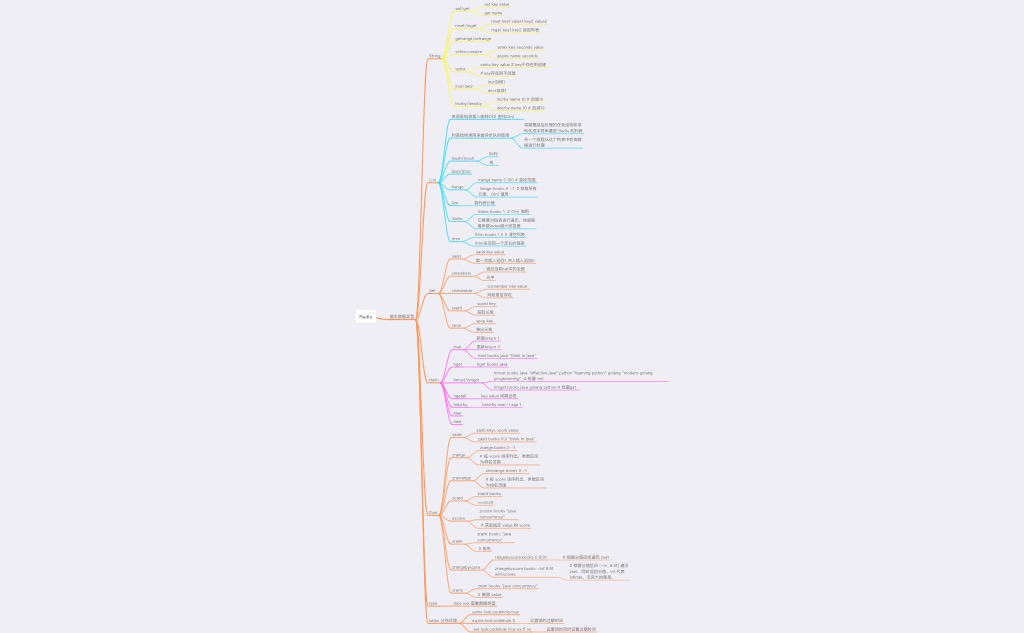
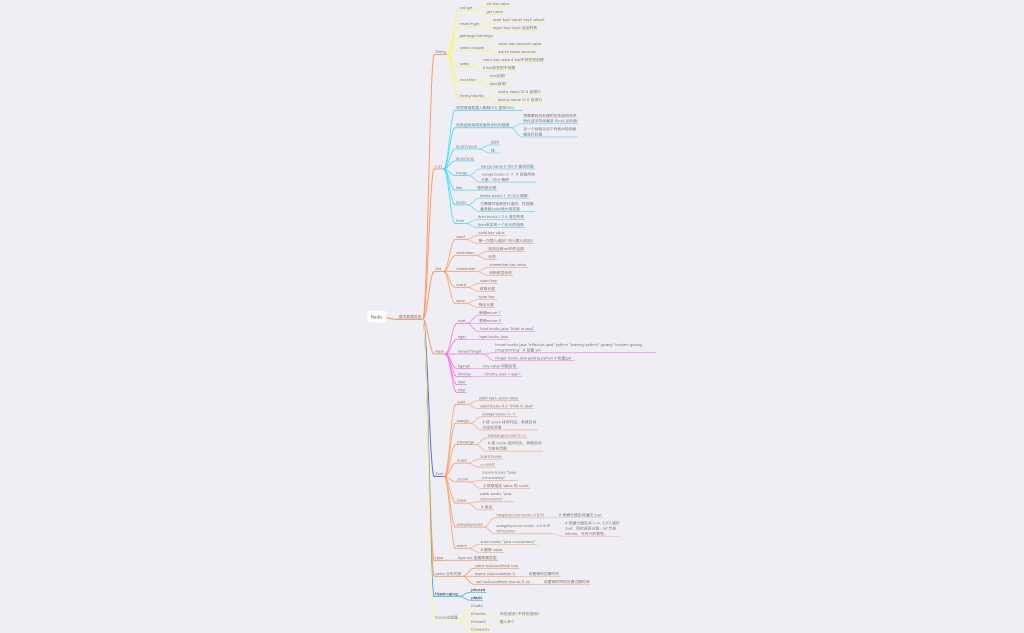
add bloom

Changed region(s): [[0.3438, 0.0, 0.625, 1.0]]

diff --git a/test_bloom.py b/test_bloom.py
@@ -1,0 +1,62 @@
+# coding:utf-8
+from __future__ import unicode_literals
+
+import redis
+import random
+
+pool = redis.ConnectionPool(host='127.0.0.1', port='6381')
+
+r = redis.Redis(connection_pool=pool)
+
+# 构造26字母
+CHARS = ''.join([chr(ord('a') + i) for i in range(26)])
+
+
+def random_string(n):
+    """
+    构造随机长度的字符串
+    """
+    chars = []
+    for i in range(n):
+        idx = random.randint(0, len(CHARS) - 1)
+        chars.append(CHARS[idx])
+    return ''.join(chars)
+
+
+users = list(set([random_string(64) for i in range(100000)]))
+print('total users', len(users))
+users_train = users[:len(users)//2]  # 前一半
+users_test = users[len(users)//2:]  # 后一半
+
+r.delete("code")
+falses = 0
+
+"""
+使用bf.reserve 设置错误率
+不使用 bf.reserve，默认的error_rate是 0.01，默认的initial_size是 100。
+"""
+r.execute_command("bf.reserve", "code", 0.001, 50000)
+
+for user in users_train:
+    """
+    将前一半添加
+    """
+    r.execute_command("bf.add", "code", user)
+
+print('all trained')
+for user in users_test:
+    """
+    拿后一半的数据在已经添加的数据中查找
+    """
+    ret = r.execute_command("bf.exists", "code", user)
+    # 使用另一半的作为误差统计
+    if ret == 1:
+        falses += 1
+
+
+"""
+total users 100000
+all trained
+586 50000 err percent: 0.01172  # 误判率 1%
+"""
+print(falses, len(users_test), f'err percent: {falses/len(users_test)}')

diff --git a/redis_test.py b/redis_test.py
@@ -4,7 +4,7 @@ from __future__ import unicode_literals
 import redis
 import json
 
-pool = redis.ConnectionPool(host='127.0.0.1',port='6380')
+pool = redis.ConnectionPool(host='127.0.0.1', port='6380')
 
 r = redis.Redis(connection_pool=pool)
 # print r.mget('name1', 'name2', 'aaa')
@@ -13,14 +13,14 @@ r = redis.Redis(connection_pool=pool)
 # print r.get('name1')
 
 
-# print r.setrange('name', 0, "你好") 
+# print r.setrange('name', 0, "你好")
 # print r.getrange('name',0,100)
 
 # list
 # print r.lindex('books', '0')
 # print r.lrange('books', '0', "-1")
 
-# 使用yield 对列表元素增量迭代  
+# 使用yield 对列表元素增量迭代
 
 def redis_list_itre(name):
     """
@@ -32,8 +32,8 @@ def redis_list_itre(name):
         for index in range(list_count):
             yield r.lindex(name, index)
     else:
-        print "%s is not list type" %name
- 
+        print "%s is not list type" % name
+
 # for item in redis_list_itre("books"):
 #     print item
 
@@ -54,7 +54,8 @@ def redis_user_info_hash_get():
     res = r.hmget('user01', 'name', 'age')
     print(res)
 
+
 # redis_user_info_hash_get()
-client = redis.StrictRedis(connection_pool = pool)
+client = redis.StrictRedis(connection_pool=pool)
 
 r.zadd('zz', 'n1', 1, 'n2', 2)

diff --git a/redis-py-err.py b/redis-py-err.py
@@ -1,0 +1,37 @@
+# coding:utf-8
+from __future__ import unicode_literals
+
+# redis-py中Python2/3版本的坑
+
+import redis
+pool = redis.ConnectionPool(host='127.0.0.1', port='6380')
+
+r = redis.Redis(connection_pool=pool)
+
+# zadd
+element1 = "hello world"
+score1 = 11
+
+if redis.VERSION[0] < 3:
+    print("python2")
+    # in python2
+    # r.zadd('my-key', element1=score1)
+    # r.setex(name, time, value)
+    # r.zincrby('test1', 'value', amount=10)
+else:
+    print('python3')
+    """
+    def zincrby(self, name, amount, value):
+    原生语句 zincrby key increment member
+    name ->key 
+    amount ->value
+    value -> member
+    """
+    # r.zincrby('test1', 10, 'tom')  # python3和原生的执行顺序一致
+    # r.execute_command('zincrby', 'test1', 2, 'jack')
+
+    """
+    zadd in python3 is map
+    """
+    r.zadd('my-key', {element1: score1})
+    r.execute_command('zadd', 'books', 9.8, 'python cookbook')

diff --git a/bloom.py b/bloom.py
@@ -1,0 +1,24 @@
+# coding:utf-8
+from __future__ import unicode_literals
+
+import redis
+import json
+
+pool = redis.ConnectionPool(host='127.0.0.1', port='6381')
+
+r = redis.Redis(connection_pool=pool)
+
+# 对已经存在的元素不会出现误判
+r.delete("codehole")
+for i in range(100000):
+    r.execute_command("bf.add", "codehole", "user%d" % i)
+    # ret = r.execute_command("bf.exists", "codehole", "user%d" % i)
+    # if ret == 0:
+    #     print(i)
+    #     break
+
+    # 注意 i+1，这个是当前布隆过滤器没见过的
+    ret = r.execute_command("bf.exists", "codehole", "user%d" % (i+1))
+    if ret == 1:
+        print(i)
+        break

diff --git a/7 布隆过滤器.md b/7 布隆过滤器.md
@@ -1,0 +1,162 @@
+# 布隆过滤器
+
+- 去重的同时能节省空间
+- 节省数据库的IO请求
+- 节省缓存
+
+    实际上，如果历史记录存储在关系数据库里，去重就需要频繁地对数据库进行 exists 查询，当系统并发量很高时，数据库是很难扛住压力的。
+
+    你可能又想到了缓存，但是如此多的历史记录全部缓存起来，那得浪费多大存储空间啊？而且这个存储空间是随着时间线性增长，你撑得住一个月，你能撑得住几年么？但是不缓存的话，性能又跟不上，这该怎么办？
+
+    这时，布隆过滤器 (Bloom Filter) 闪亮登场了，它就是专门用来解决这种去重问题的。它在起到去重的同时，在空间上还能节省 90% 以上，只是稍微有那么点不精确，也就是有一定的误判概率。
+
+## 布隆过滤器是什么
+
+- 添加过的肯定存在
+- 查询某个之存在时 这个值不一定存在
+- 会有误判
+- 通过参数设置 可以控制精度
+
+ 布隆过滤器可以理解为一个不怎么精确的 set 结构，当你使用它的 contains 方法判断某个对象是否存在时，它可能会误判。但是布隆过滤器也不是特别不精确，只要参数设置的合理，它的精确度可以控制的相对足够精确，只会有小小的误判概率。
+
+    当布隆过滤器说某个值存在时，这个值可能不存在；当它说不存在时，那就肯定不存在。打个比方，当它说不认识你时，肯定就不认识；当它说见过你时，可能根本就没见过面，不过因为你的脸跟它认识的人中某脸比较相似 (某些熟脸的系数组合)，所以误判以前见过你。
+
+    套在上面的使用场景中，布隆过滤器能准确过滤掉那些已经看过的内容，那些没有看过的新内容，它也会过滤掉极小一部分 (误判)，但是绝大多数新内容它都能准确识别。这样就可以完全保证推荐给用户的内容都是无重复的。
+
+## Redis 中的布隆过滤器
+
+- Redis 4.0中作为插件添加、
+
+Redis 官方提供的布隆过滤器到了 Redis 4.0 提供了插件功能之后才正式登场。布隆过滤器作为一个插件加载到 Redis Server 中，给 Redis 提供了强大的布隆去重功能
+
+在Docker中使用
+
+```shell
+docker pull redislabs/rebloom
+docker run --name=redisbloom -d  -p6381:6379 redislabs/rebloom
+redis-cli -p 6381
+```
+
+`bf.add` 添加元素，`bf.exists` 查询元素是否存在
+
+`bf.add` 只能一次添加一个元素，如果想要一次添加多个，就需要用到 `bf.madd` 指令。同样如果需要一次查询多个元素是否存在，就需要用到 `bf.mexists` 指令
+
+```
+127.0.0.1:6381> bf.add code user1
+(integer) 1
+127.0.0.1:6381> bf.add code user2
+(integer) 1
+127.0.0.1:6381> type code
+MBbloom--
+127.0.0.1:6381> bf.add code user3
+(integer) 1
+127.0.0.1:6381> bf.exists code user1
+(integer) 1
+127.0.0.1:6381> bf.exists code user5
+(integer) 0
+127.0.0.1:6381> bf.madd code user7 user8 user9
+1) (integer) 1
+2) (integer) 1
+3) (integer) 1
+127.0.0.1:6381> bf.mexists code user7 user9 user10
+1) (integer) 1
+2) (integer) 1
+3) (integer) 0
+127.0.0.1:6381>
+```
+
+原因就在于布隆过滤器对于已经见过的元素肯定不会误判，它只会误判那些没见过的元素
+
+### 测量误判率
+
+我们先随机出一堆字符串，然后切分为 2 组，将其中一组塞入布隆过滤器，然后再判断另外一组的字符串存在与否，取误判的个数和字符串总量一半的百分比作为误判率。
+
+```
+"""
+使用bf.reserve 设置错误率
+不使用 bf.reserve，默认的error_rate是 0.01，默认的initial_size是 100。
+"""
+r.execute_command("bf.reserve", "code", 0.001, 50000)
+```
+
+##  注意事项
+
+    布隆过滤器的`initial_size`估计的过大，会浪费存储空间，估计的过小，就会影响准确率，用户在使用之前一定要尽可能地精确估计好元素数量，还需要加上一定的冗余空间以避免实际元素可能会意外高出估计值很多。
+
+    布隆过滤器的`error_rate`越小，需要的存储空间就越大，对于不需要过于精确的场合，`error_rate`设置稍大一点也无伤大雅。比如在新闻去重上而言，误判率高一点只会让小部分文章不能让合适的人看到，文章的整体阅读量不会因为这点误判率就带来巨大的改变。
+
+## 布隆过滤器的原理
+
+![image-20200407164758245](assets/image-20200407164758245.png)
+
+###  add原理
+
+- 向布隆过滤器中添加key,多个hash函数会对key进行计算得到一个一个整数索引值，然后对位数组长度取模计算得到一个位置，每个hash函数都会得到一个位置
+- 把数组的这几个位置都置1，完成add操作，
+
+
+### 查询原理
+
+- 布隆过滤器查询key是否存在和add原理一样，同样会把hash的位置计算出来， 查看数组中的位置是否都是1
+- 有一个位置是0，则该key不存在
+- 如果都是1，说明该key极有可能存在
+
+
+
+使用的是时候不要让实际的元素大于初始化的大小，当实际元素超过布隆过滤器的大小的时候，需要重建，重新分配一个size更大的布隆过滤器，再将所有的历史记录批量add(需要在其他存储器中存储历史元素)
+
+Errata不会因为元素超过限制就极具增加，增加了重建的时间
+
+
+
+## 空间占用估计
+
+两个输入参数:
+
+- 元素数量n
+- 错误率f
+
+两个输出：
+- 数组长度l 需要的存储空间bit
+- Hash 函数的最佳数量k,影响错误率
+
+```
+k=0.7*(l/n)# 约等于
+
+f=0.6185^(l/n) # ^ 表示次方计算，也就是 math.pow
+```
+
+结论：
+
+- 数组位数越长，错误率越低
+
+- 数组位数越长，hash函数数量越多，影响计算效率
+
+- 当一个元素平均需要 1 个字节 (8bit) 的指纹空间时 (l/n=8)，错误率大约为 2%
+
+- 错误率为 10%，一个元素需要的平均指纹空间为 4.792 个 bit，大约为 5bit
+
+- 错误率为 1%，一个元素需要的平均指纹空间为 9.585 个 bit，大约为 10bit
+
+- 错误率为 0.1%，一个元素需要的平均指纹空间为 14.377 个 bit，大约为 15bit
+
+布隆过滤器存储的是指纹空间，最多占用2个字节，相对set节省空间
+
+布隆计算器<https://krisives.github.io/bloom-calculator/>
+
+
+
+## 无法用Redsi4.0
+
+pyrebloom 库就不支持重 连和重试，在使用时需要对它做一层封装后才能在生产环境中使用
+
+[Python Redis Bloom Filter](https://github.com/robinhoodmarkets/pyreBloom)
+
+
+
+## 布隆过滤器的其它应用
+
+- 爬虫URL的去重复，URL太多了，使用集合会浪费很多的空间，会大幅降低存储消耗，仅仅错过少量的页面
+- NoSQL中HBase、Cassandra 还有 LevelDB、RocksDB 内部都有布隆过滤器结构，
+- 布隆过滤器能显著降低数据库的IO请求，当用户查询某个row时，先通过布隆过滤器过滤掉大量不存在的请求，然后再去磁盘查询
+- 邮件系统的垃圾邮件过滤功能也普遍使用了布隆过滤器
